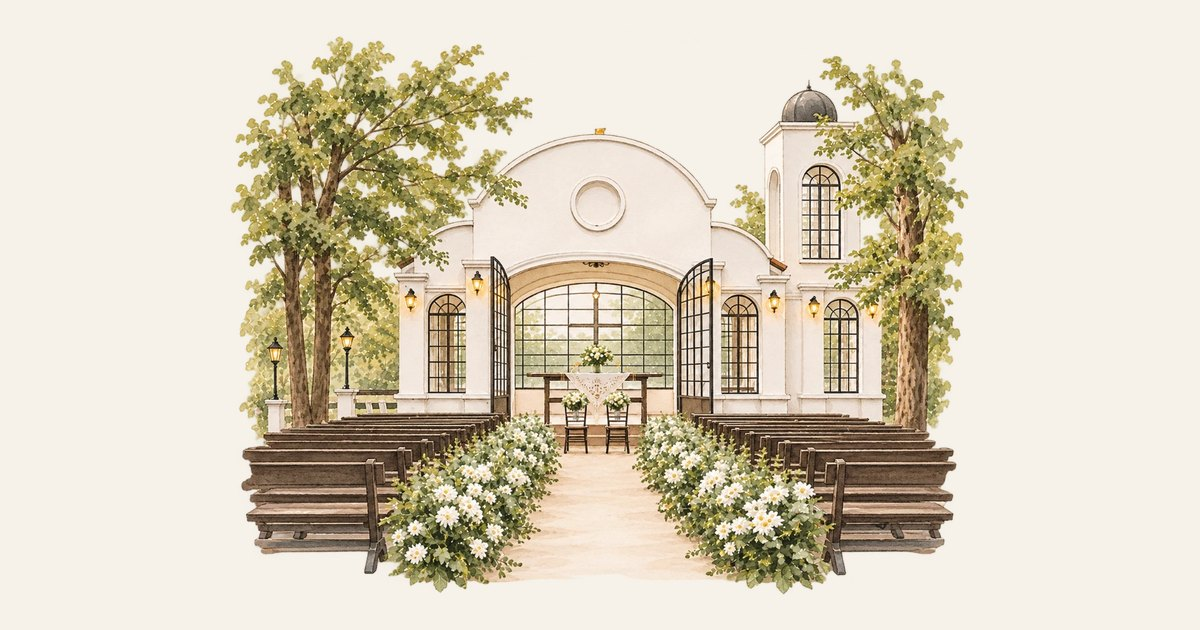
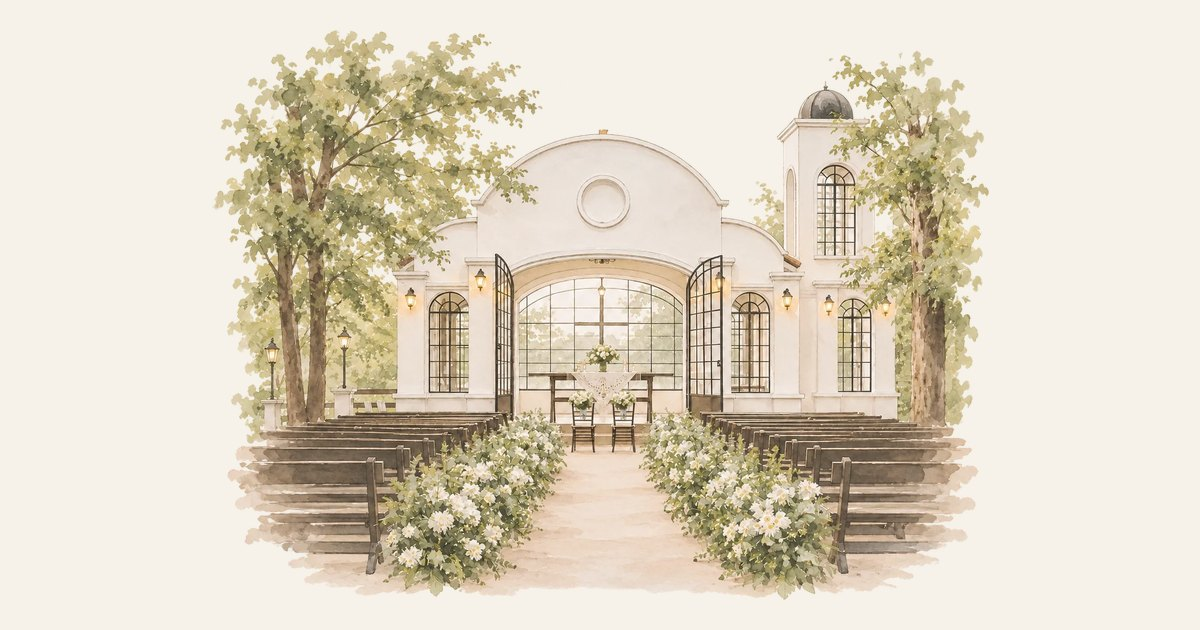
Nuevas ilustraciones, imagen de WhatsApp y efecto de escritura en los nombres
Claude-Session: https://claude.ai/code/session_01583YhKxcLRYusaqzeyUgvb

diff --git a/src/styles.css b/src/styles.css
@@ -39,9 +39,7 @@ section, footer { text-align: center; padding: 72px 0; display: flex; flex-direc
 .sprig { width: 130px; color: var(--ink); }
 
 /* Ilustración: multiply funde el papel de la imagen con el fondo */
-.art { width: 100%; max-width: 460px; mix-blend-mode: multiply; margin: 8px 0;
-  -webkit-mask-image: radial-gradient(ellipse 60% 62% at 50% 50%, #000 78%, transparent 100%);
-  mask-image: radial-gradient(ellipse 60% 62% at 50% 50%, #000 78%, transparent 100%); }
+.art { width: 100%; max-width: 460px; margin: 8px 0; }
 .venue { font-size: 1.15rem; margin-top: 4px; }
 
 /* Agenda */
@@ -92,7 +90,26 @@ footer { padding-bottom: 96px; }
 /* Aparición suave */
 .reveal { opacity: 0; transform: translateY(18px); transition: opacity 1s ease, transform 1s ease; }
 .reveal.in { opacity: 1; transform: none; }
+/* "Mili y Nacho" se escribe de izquierda a derecha (1.8 s): una máscara con borde suave que se desplaza */
+.names {
+  padding: 0.08em 0.25em; /* que la tinta de las mayúsculas cursivas no quede recortada por la máscara */
+  -webkit-mask-image: linear-gradient(90deg, #000 45%, transparent 55%);
+  mask-image: linear-gradient(90deg, #000 45%, transparent 55%);
+  -webkit-mask-size: 260% 100%;
+  mask-size: 260% 100%;
+  -webkit-mask-repeat: no-repeat;
+  mask-repeat: no-repeat;
+  -webkit-mask-position: 100% 0;
+  mask-position: 100% 0;
+  animation: escribir 1.8s cubic-bezier(0.4, 0, 0.2, 1) 0.5s forwards;
+}
+@keyframes escribir {
+  from { -webkit-mask-position: 100% 0; mask-position: 100% 0; }
+  to   { -webkit-mask-position: 0 0;    mask-position: 0 0; }
+}
+
 @media (prefers-reduced-motion: reduce) {
+  .names { animation: none; -webkit-mask-image: none; mask-image: none; }
   html { scroll-behavior: auto; }
   .reveal { opacity: 1; transform: none; transition: none; }
   .scroll-hint { animation: none; }
